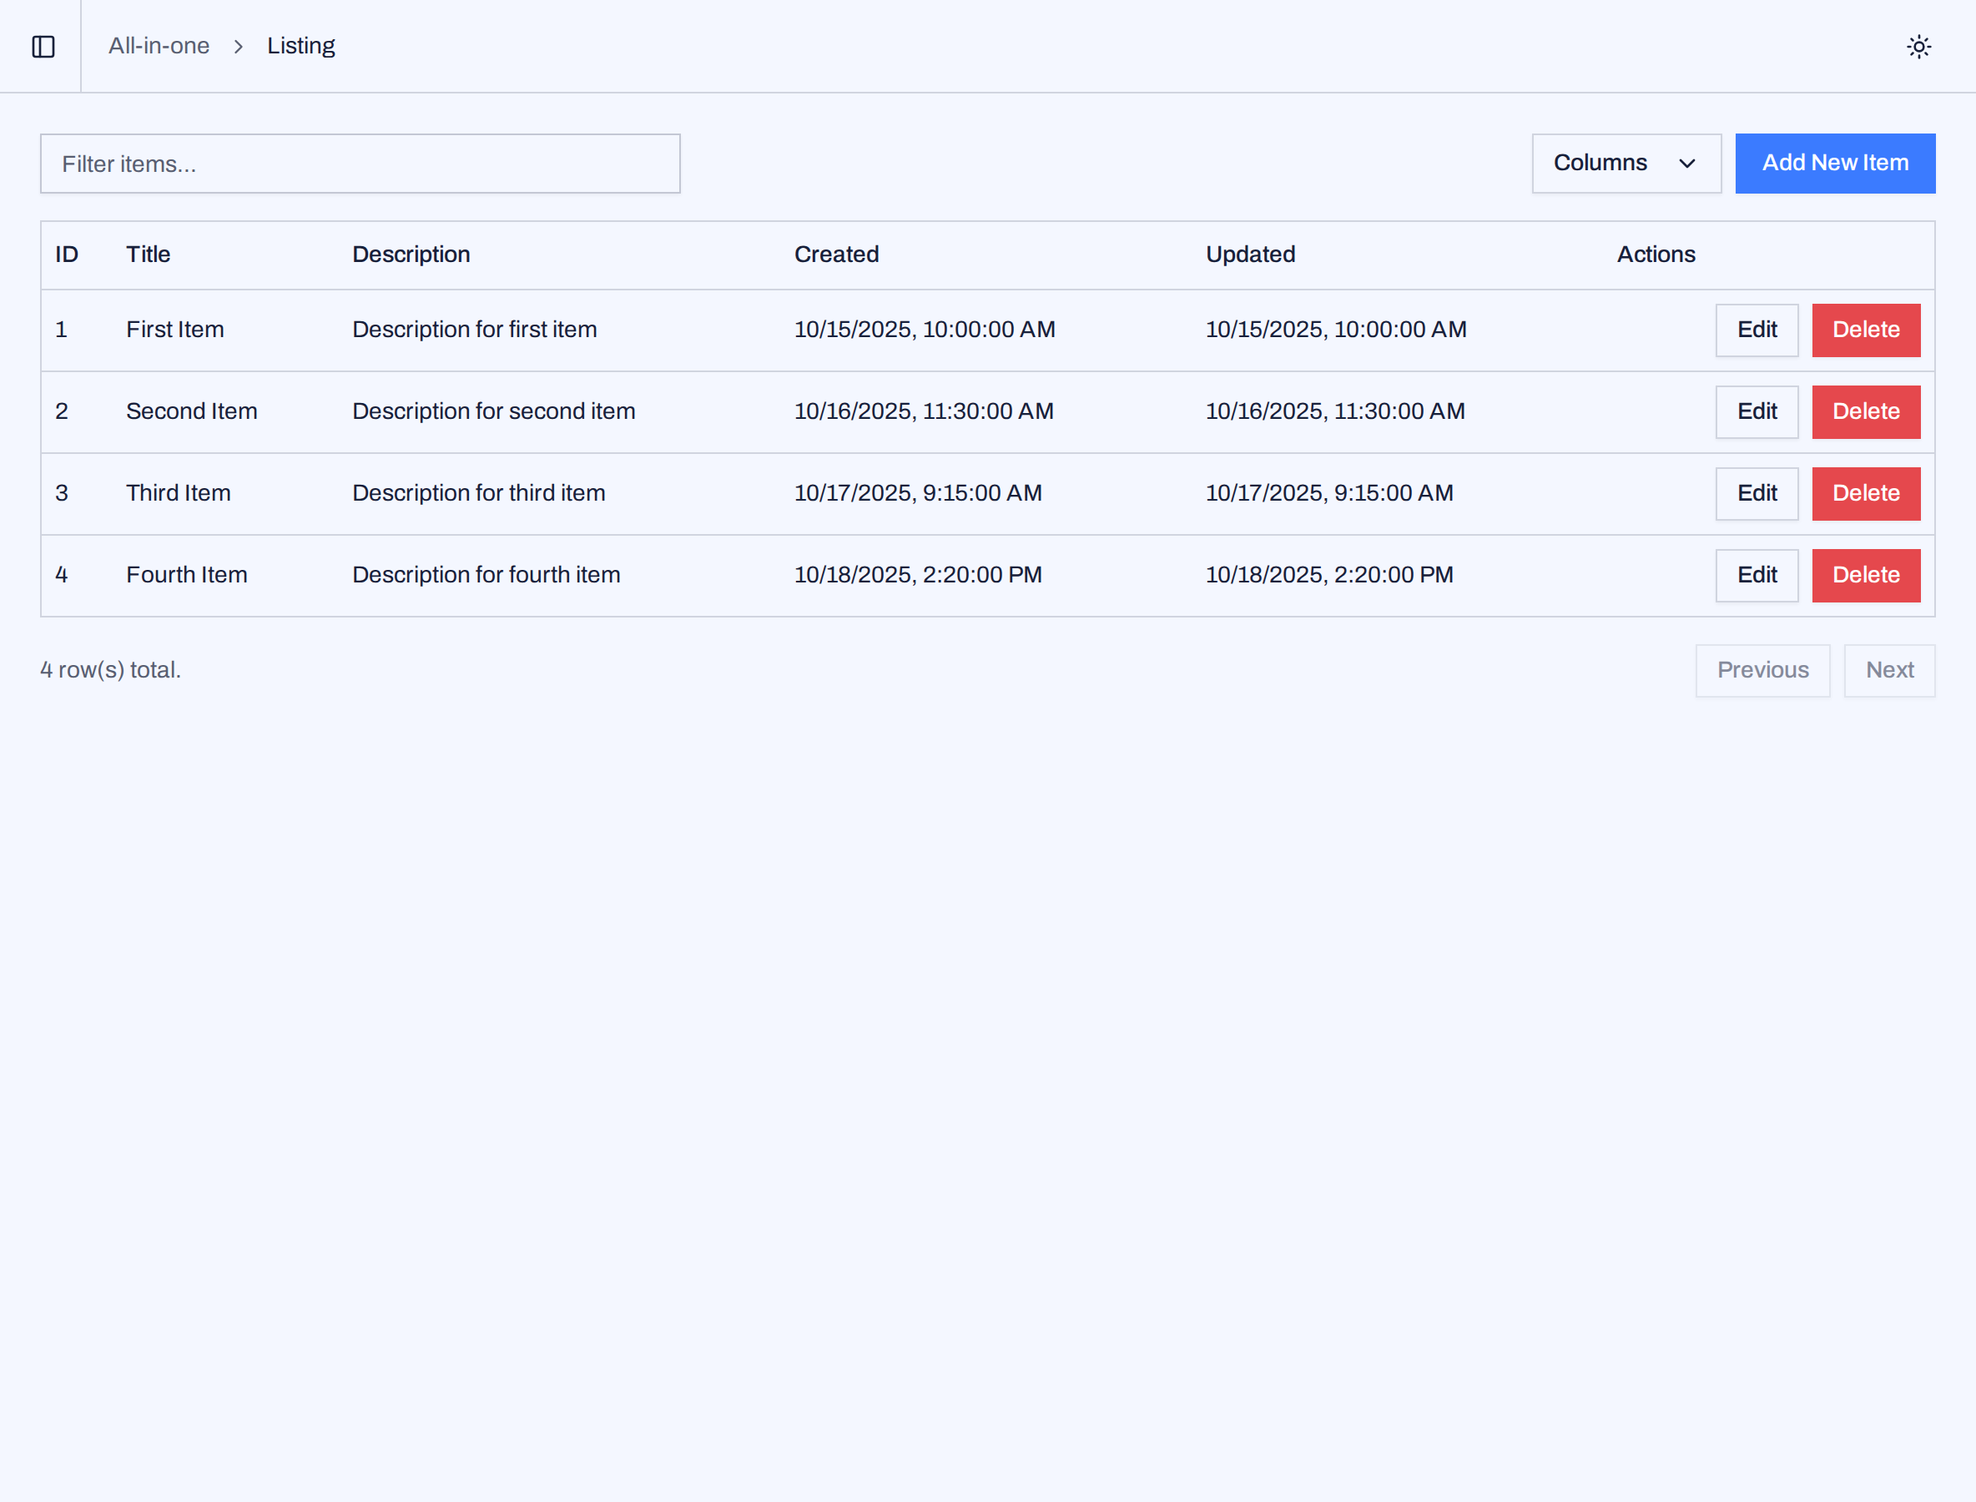
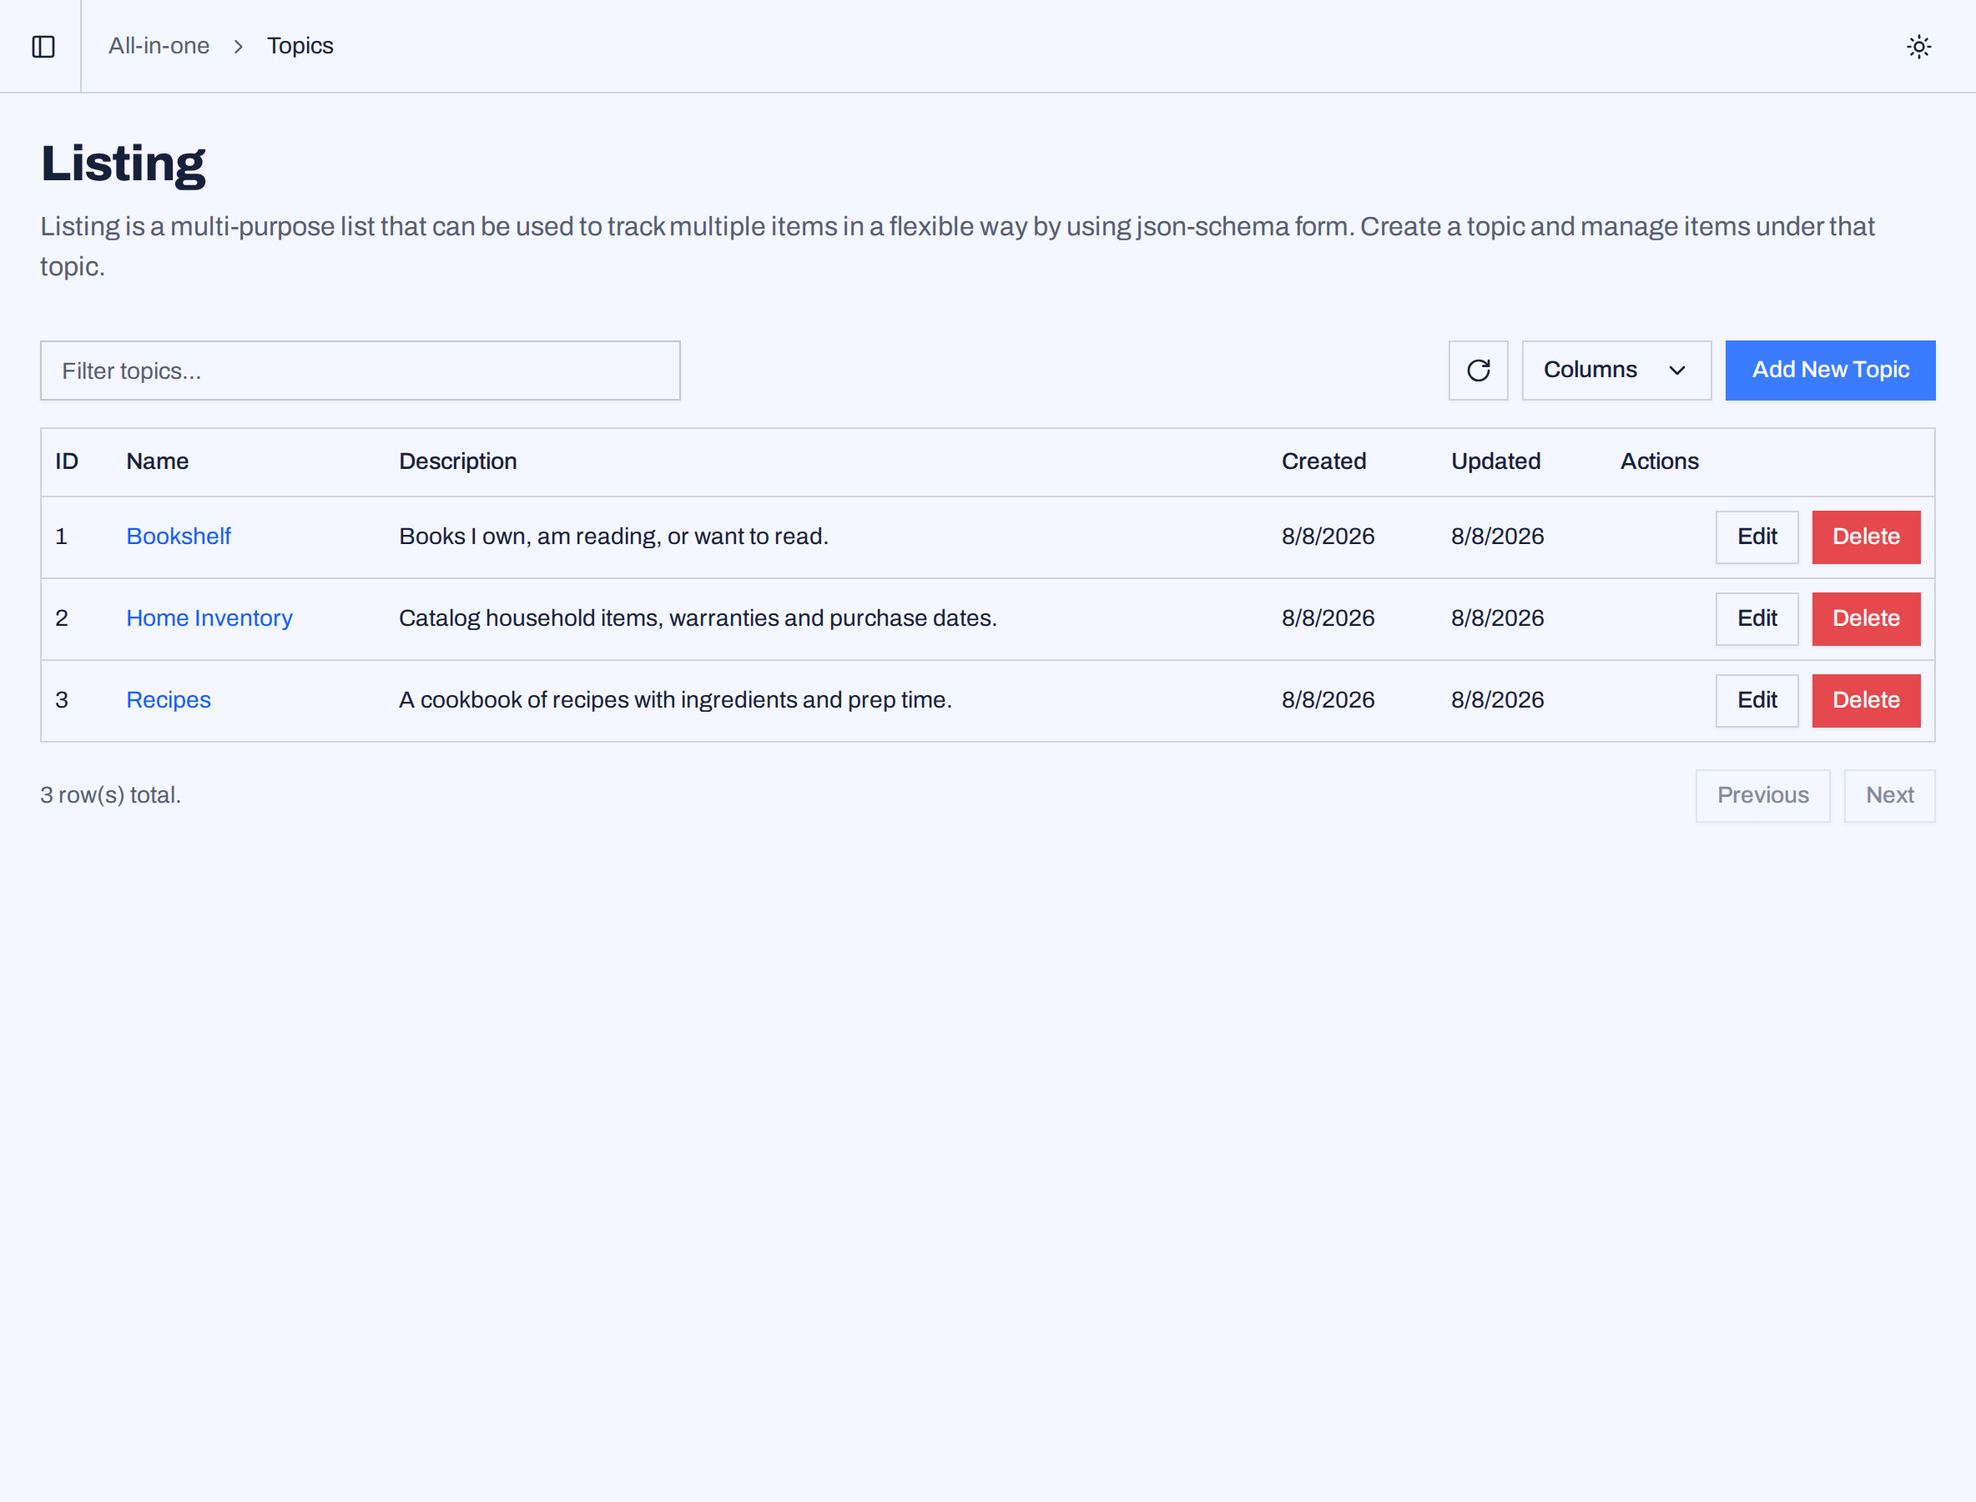
fix: redirect orphan /listing to /listing/topics; use real listing screenshot
The listing feature works via /listing/topics (topics) and
/listing/topics/[id] (items) -- the sidebar and dashboard link there, and
both call the correct backend endpoints. The only broken route was the
orphaned bare /listing stub (nonexistent /api/v1/items, hardcoded rows),
which nothing linked to.

Replace the stub with a 307 redirect to /listing/topics (supersedes the
earlier stopgap that repointed its load but still rendered hardcoded rows).
Re-shoot the landing listing.png from the real /listing/topics page
(Bookshelf / Home Inventory / Recipes) instead of the stub's placeholders.
Correct the .context notes that had wrongly claimed the feature was broken.

Claude-Session: https://claude.ai/code/session_01WjfKxPxj3kMWU6RoD3LSsp

diff --git a/web/src/routes/listing/+page.svelte b/web/src/routes/listing/+page.svelte
@@ -1,241 +1,6 @@
 <script lang="ts">
-  import DataTable from "../../components/data-table.svelte";
-  import { Button } from "$lib/components/ui/button/index";
-  import * as Dialog from "$lib/components/ui/dialog/index";
-  import { Input } from "$lib/components/ui/input/index";
-  import { Label } from "$lib/components/ui/label/index";
-  import type { ColumnDef } from "@tanstack/table-core";
-  import { apiClient, apiPut, apiPost, apiDelete } from "$lib/api";
-
-  interface Item {
-    id: number;
-    title: string;
-    description: string;
-    created_at: string;
-    updated_at: string;
-  }
-
-  let listings = $state<Item[]>([
-    { id: 1, title: "First Item", description: "Description for first item", created_at: "2025-10-15T10:00:00Z", updated_at: "2025-10-15T10:00:00Z" },
-    { id: 2, title: "Second Item", description: "Description for second item", created_at: "2025-10-16T11:30:00Z", updated_at: "2025-10-16T11:30:00Z" },
-    { id: 3, title: "Third Item", description: "Description for third item", created_at: "2025-10-17T09:15:00Z", updated_at: "2025-10-17T09:15:00Z" },
-    { id: 4, title: "Fourth Item", description: "Description for fourth item", created_at: "2025-10-18T14:20:00Z", updated_at: "2025-10-18T14:20:00Z" },
-  ]);
-  
-  let dialogOpen = $state(false);
-  let editingItem = $state<number | null>(null);
-  let formData = $state({
-    title: '',
-    description: ''
-  });
-  
-  let loading = $state(false);
-  let error = $state('');
-
-  const columns: ColumnDef<Item>[] = [
-    {
-      accessorKey: "id",
-      header: "ID",
-      cell: (info) => info.getValue(),
-      enableHiding: true,
-    },
-    {
-      accessorKey: "title",
-      header: "Title",
-      cell: (info) => info.getValue(),
-      enableHiding: true,
-    },
-    {
-      accessorKey: "description",
-      header: "Description",
-      cell: (info) => info.getValue(),
-      enableHiding: true,
-    },
-    {
-      accessorKey: "created_at",
-      header: "Created",
-      cell: (info) => formatDate(info.getValue() as string),
-      enableHiding: true,
-    },
-    {
-      accessorKey: "updated_at",
-      header: "Updated",
-      cell: (info) => formatDate(info.getValue() as string),
-      enableHiding: true,
-    },
-    {
-      id: "actions",
-      header: "Actions",
-      cell: (info) => {
-        const item = info.row.original;
-        return {
-          render: () => null,
-          data: item
-        };
-      },
-      enableHiding: false,
-    },
-  ];
-
-  function openAddDialog() {
-    editingItem = null;
-    formData = { title: '', description: '' };
-    dialogOpen = true;
-  }
-
-  function openEditDialog(item: Item) {
-    editingItem = item.id;
-    formData = { title: item.title, description: item.description };
-    dialogOpen = true;
-  }
-
-  async function handleSubmit(e: Event) {
-    e.preventDefault();
-
-    if (!formData.title.trim() || !formData.description.trim()) {
-      error = 'Title and description are required';
-      return;
-    }
-    
-    loading = true;
-    error = '';
-    
-    try {
-      if (editingItem) {
-        const response = await apiPut(`/api/v1/items/${editingItem}`, {
-          title: formData.title.trim(),
-          description: formData.description.trim()
-        });
-        
-        if (!response.ok) {
-          throw new Error('Failed to update item');
-        }
-        
-        const updatedItem = await response.json();
-        const itemIndex = listings.findIndex(item => item.id === editingItem);
-        if (itemIndex !== -1) {
-          listings[itemIndex] = updatedItem.data;
-          listings = listings;
-        }
-      } else {
-        const response = await apiPost('/api/v1/items', {
-          title: formData.title.trim(),
-          description: formData.description.trim()
-        });
-        
-        if (!response.ok) {
-          throw new Error('Failed to create item');
-        }
-        
-        const newItem = await response.json();
-        listings.push(newItem.data);
-        listings = listings;
-      }
-      
-      formData = { title: '', description: '' };
-      editingItem = null;
-      dialogOpen = false;
-    } catch (err) {
-      error = err instanceof Error ? err.message : 'An unexpected error occurred';
-    } finally {
-      loading = false;
-    }
-  }
-  
-  async function deleteItem(id: number) {
-    if (!confirm('Are you sure you want to delete this item?')) {
-      return;
-    }
-    
-    loading = true;
-    error = '';
-    
-    try {
-      const response = await apiDelete(`/api/v1/items/${id}`);
-      
-      if (!response.ok) {
-        throw new Error('Failed to delete item');
-      }
-      
-      const itemIndex = listings.findIndex(item => item.id === id);
-      if (itemIndex !== -1) {
-        listings.splice(itemIndex, 1);
-        listings = listings;
-      }
-    } catch (err) {
-      error = err instanceof Error ? err.message : 'An unexpected error occurred';
-    } finally {
-      loading = false;
-    }
-  }
-
-  function formatDate(dateString: string): string {
-    return new Date(dateString).toLocaleString();
-  }
+	// This route only redirects (see +page.ts). The load throws before this
+	// renders; keep a tiny fallback for the brief client-side redirect moment.
 </script>
 
-<div class="container mx-auto p-6">
-  <DataTable 
-    data={listings} 
-    {columns}
-    filterPlaceholder="Filter items..."
-    showFilter={true}
-    showColumnVisibility={true}
-    showPagination={true}
-    actions={[
-      {
-        label: "Add New Item",
-        onclick: openAddDialog
-      }
-    ]}
-  >
-    {#snippet actionsColumn({ row })}
-      <div class="flex justify-end gap-2">
-        <Button variant="outline" size="sm" onclick={() => openEditDialog(row.original)}>
-          Edit
-        </Button>
-        <Button variant="destructive" size="sm" onclick={() => deleteItem(row.original.id)}>
-          Delete
-        </Button>
-      </div>
-    {/snippet}
-  </DataTable>
-</div>
-
-<Dialog.Root bind:open={dialogOpen}>
-  <Dialog.Content class="sm:max-w-[425px]">
-    <Dialog.Header>
-      <Dialog.Title>{editingItem ? 'Edit Item' : 'Add New Item'}</Dialog.Title>
-      <Dialog.Description>
-        {editingItem ? 'Make changes to your item here.' : 'Add a new item to your listing.'}
-      </Dialog.Description>
-    </Dialog.Header>
-
-    <form onsubmit={handleSubmit} class="space-y-4">
-      {#if error}
-        <div class="rounded-md bg-destructive/15 p-3 text-sm text-destructive">
-          {error}
-        </div>
-      {/if}
-
-      <div class="space-y-2">
-        <Label for="title">Title</Label>
-        <Input id="title" type="text" bind:value={formData.title} required />
-      </div>
-
-      <div class="space-y-2">
-        <Label for="description">Description</Label>
-        <Input id="description" type="text" bind:value={formData.description} required />
-      </div>
-
-      <Dialog.Footer>
-        <Button type="button" variant="outline" onclick={() => { dialogOpen = false; editingItem = null; }} disabled={loading}>
-          Cancel
-        </Button>
-        <Button type="submit" disabled={loading}>
-          {loading ? 'Saving...' : editingItem ? 'Save changes' : 'Add item'}
-        </Button>
-      </Dialog.Footer>
-    </form>
-  </Dialog.Content>
-</Dialog.Root>
+<p class="p-6 text-sm text-muted-foreground">Redirecting to your listings…</p>

diff --git a/web/src/routes/listing/+page.ts b/web/src/routes/listing/+page.ts
@@ -1,19 +1,9 @@
-// SvelteKit load function to fetch listing data from backend API
-import { apiLoad, throwApiError } from "$lib/api";
+import { redirect } from "@sveltejs/kit";
 
-export const load = async ({ fetch }) => {
-	// NOTE: stopgap — the backend registers no `/api/v1/items`; the listing app is
-	// topic-based (`/api/v1/topics`). Point the load at the real endpoint so the page
-	// renders instead of 500-ing on the SPA-fallback HTML. The wider items-vs-topics
-	// disconnect (page still renders hardcoded placeholders; CRUD hits `/items`) is
-	// tracked in .context/LISTING_BACKEND_DISCONNECT.md.
-	const res = await apiLoad(fetch, "/api/v1/topics");
-	if (!res.ok) {
-		await throwApiError(res, "Failed to fetch listings");
-	}
-	const data = await res.json();
-	return {
-		listings: data.data || [],
-		breadcrumb: { label: "Listing" },
-	};
+// The listing feature lives at /listing/topics (topics) and
+// /listing/topics/[id] (items). This bare /listing route used to be a stub
+// wired to a nonexistent /api/v1/items endpoint; it's now just a redirect to
+// the real entry point so any stray link/bookmark lands in the right place.
+export const load = () => {
+	throw redirect(307, "/listing/topics");
 };

diff --git a/.context/LISTING_BACKEND_DISCONNECT.md b/.context/LISTING_BACKEND_DISCONNECT.md
@@ -1,35 +1,31 @@
-# Bug: Listing page is disconnected from the backend (items vs topics)
+# Listing route cleanup — corrected findings
 
-**Found:** 2026-08-08, during landing-page screenshot refresh (`feat/landing-page`).
-**Present on:** `main`, `feat/landing-page`, `feat/listing-schema-presets` (shared frontend/backend).
-**Severity:** the `/listing` page was 500-ing for every user (now stopgapped).
+**Updated:** 2026-08-08. **This supersedes an earlier, incorrect version of this file.**
 
-## Symptom
-Visiting `/listing` rendered the SvelteKit **500 "Internal Error"** page.
+## Correction
+An earlier investigation concluded "the listing frontend never worked / is a stub." **That was wrong** —
+it was based only on the orphaned `/listing` route and missed the real pages (a `-maxdepth 2` file search
+hid them). The listing feature **works** and always has.
 
-## Root cause
-`web/src/routes/listing/+page.ts` `load` fetched **`/api/v1/items`**, which the backend never
-registers. `internal/listing/handler/handler.go` only registers:
-- `GET/POST /api/v1/topics`, `GET/PUT/DELETE /api/v1/topics/{id}`
-- `GET/POST /api/v1/topics/{topic_id}/items`, `.../items/{id}` (GET/PUT/DELETE)
+## Actual state (verified live, 2026-08-08)
+- **`/listing/topics`** — real topics list. Loads `/api/v1/topics`, renders real data, full topic CRUD
+  (create/edit/delete) via `EditTopicModal`. Works.
+- **`/listing/topics/[id]`** — real item view under a topic. Loads `/api/v1/topics/{id}` +
+  `/api/v1/topics/{id}/items`, full item CRUD, plus edit/delete topic. Works.
+- The app's **sidebar** and **home dashboard** both link "Listings" → `/listing/topics` (the working page).
+- Backend is fully functional: topics CRUD + nested items CRUD all verified (201/200).
+- These routes exist on `main`, `feat/landing-page`, and `feat/listing-schema-presets` alike.
+  (`feat/listing-schema-presets` adds JSON-schema presets to the topic editor — one extra commit.)
 
-There is **no `/api/v1/items`** (unscoped). The request fell through to the SPA fallback file server,
-which returns `index.html` with HTTP **200**. `load` saw `res.ok === true`, called `res.json()` on
-HTML → threw → SvelteKit rendered the 500 page.
+## The only real problem (now fixed)
+The bare **`/listing`** route was a leftover **orphan stub**: it fetched the nonexistent `/api/v1/items`
+(→ SPA-fallback HTML → `res.json()` threw → 500) and rendered hardcoded `First Item…` placeholders with
+CRUD pointed at `/api/v1/items[/id]`. **Nothing in the app linked to it.**
 
-## Stopgap applied (2026-08-08)
-`listing/+page.ts` load repointed to `/api/v1/topics` so the page renders (unblocks the landing
-screenshot and stops the 500). See the NOTE comment in that file.
+**Fix applied:** `/listing/+page.ts` now `throw redirect(307, "/listing/topics")`; the stub
+`+page.svelte` is reduced to a redirect fallback. (This replaces the earlier stopgap that repointed the
+stub's load to `/api/v1/topics` but still rendered the hardcoded table.)
 
-## Still broken — needs a real fix (NOT done)
-1. `listing/+page.svelte` renders a **hardcoded** `Item[]` placeholder (`First Item`…`Fourth Item`) and
-   **ignores** the load's `data.listings`. Real data never shows.
-2. Create/edit/delete in that page call `/api/v1/items` and `/api/v1/items/{id}` (`apiPost`/`apiPut`/
-   `apiDelete`) — also nonexistent → those actions fail.
-3. The page's domain model (`Item{title,description}`) doesn't match the backend (`topics`, and
-   items are always nested under a topic: `/topics/{topic_id}/items`).
-
-## Suggested proper fix (separate task)
-Decide the page's intent (topics list, or items-under-a-topic), then wire `load` + render + CRUD to the
-matching real endpoints, replace the hardcoded array with `data`, and align the `Item`/`Topic` types.
-Consider the `feat/listing-schema-presets` branch — it may already be reworking this area.
+## Landing follow-up (done)
+The landing carousel's `listing.png` had been shot from the broken `/listing` stub ("First Item…"). It's
+been re-captured from the real `/listing/topics` page (Bookshelf / Home Inventory / Recipes).

diff --git a/.context/LANDING_PAGE_PROGRESS.md b/.context/LANDING_PAGE_PROGRESS.md
@@ -26,21 +26,18 @@ Polish the public landing page (`web/src/routes/+page.svelte`) with three change
 
 ## Screenshots to regenerate (from the sharp-edge themed app, seeded scratch DB)
 - [x] `dashboard.png` — hero, `/home` full app (with sidebar), admin ✅ new sharp-edge shot
-- [x] `listing.png` — ✅ unblocked: repointed load to `/api/v1/topics` (stopgap), captured sharp-edge
-      (shows hardcoded placeholder items — deeper fix tracked in LISTING_BACKEND_DISCONNECT.md)
+- [x] `listing.png` — ✅ re-shot from the REAL `/listing/topics` page (Bookshelf / Home Inventory /
+      Recipes). The first attempt mistakenly used the orphan `/listing` stub; corrected.
 - [x] `chat.png` — `/chat` main content area ✅
 - [x] `shortener.png` — `/shortener` main content area ✅ (populated 6 sample links w/ click counts)
 - [x] `twofa.png` — NEW, the QR "Set Up Two-Factor Authentication" setup card ✅
 
-## ⚠ Blocker found: `/listing` is broken (pre-existing, on `main` too — not caused by this work)
-- `web/src/routes/listing/+page.ts` `load` fetches **`/api/v1/items`**, which the backend does NOT
-  register (`internal/listing/handler/handler.go` only has `/topics` and `/topics/{topic_id}/items`).
-  → request falls through to the SPA fallback → returns `index.html` (HTTP 200) → `res.json()` throws →
-  SvelteKit renders the **500 error page**. So `/listing` cannot be screenshotted.
-- Deeper: `listing/+page.svelte` renders a hardcoded placeholder `Item[]` ("First Item"…), ignores the
-  load `data`, and its create/edit/delete call `/api/v1/items/...` (also nonexistent). The whole listing
-  page is disconnected from the backend `topics` API. Fixing properly = a real listing-feature task,
-  out of scope for the landing work. **Awaiting decision on how to handle the listing slide.**
+## Listing: CORRECTED (see .context/LISTING_BACKEND_DISCONNECT.md)
+An earlier note here claimed the listing feature was broken. **That was wrong** — the real pages
+`/listing/topics` and `/listing/topics/[id]` work (the `-maxdepth 2` search had hidden them). The app's
+nav links to `/listing/topics`, which the feature actually uses. The **only** broken thing was the
+orphaned bare `/listing` stub (nothing linked to it), now fixed with a `307` redirect to
+`/listing/topics`. The landing `listing.png` was re-shot from the real page.
 
 ## Checklist
 - [x] Rework features section in `+page.svelte`: carousel markup + state + CSS; remove diagonal CSS.
